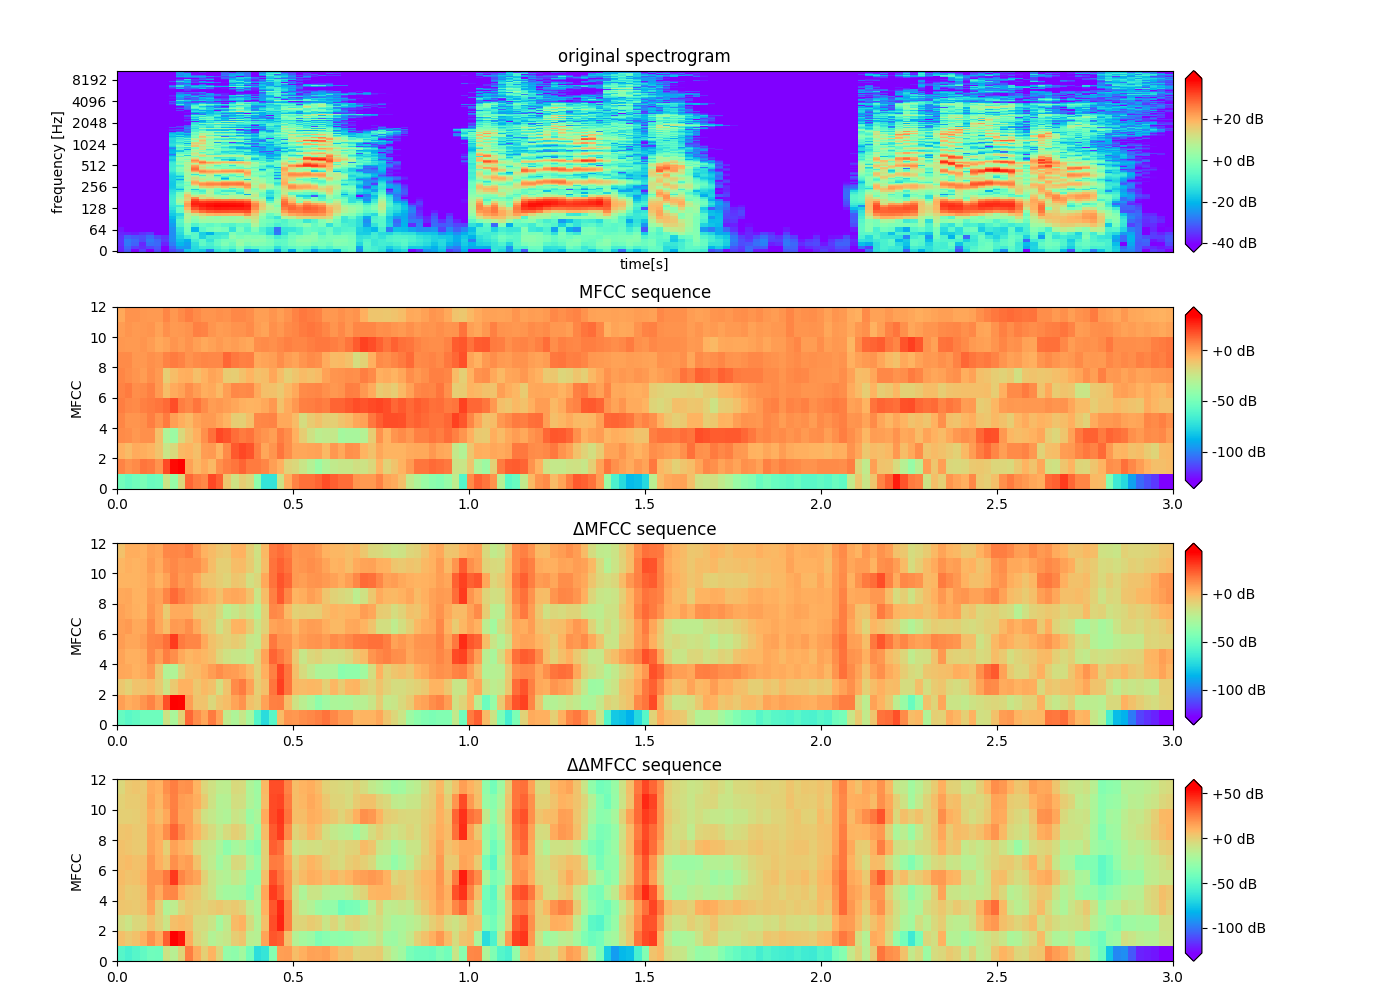
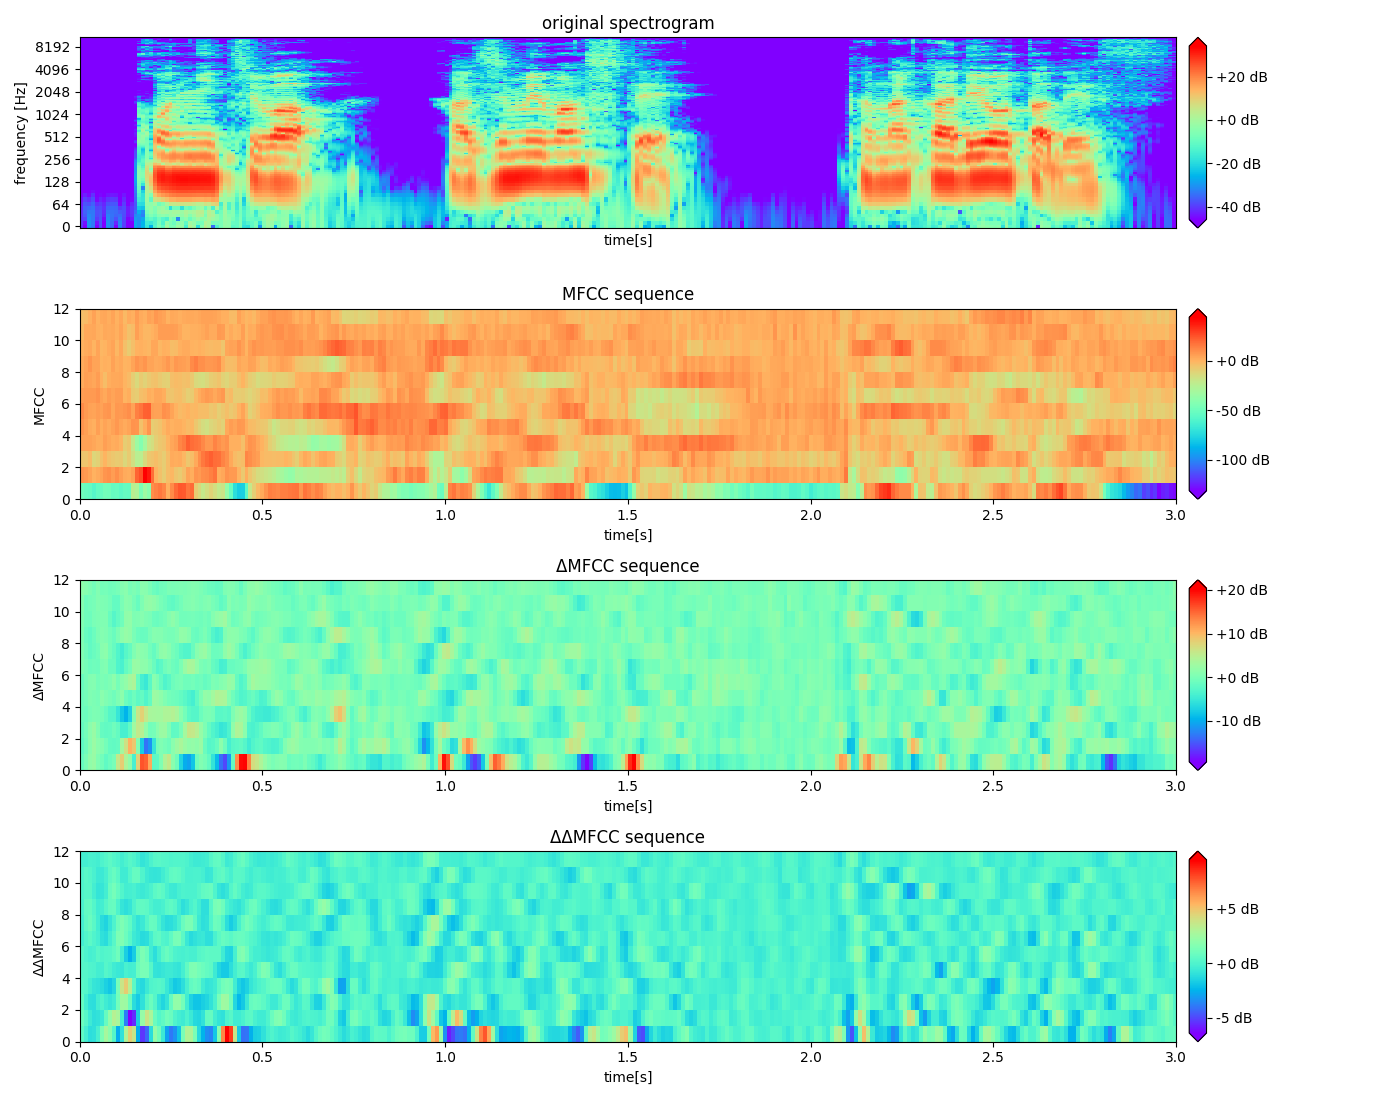
docstringsを追加、動的変化量の計算を修正

diff --git a/ex5/r_tanaka/mfcc.py b/ex5/r_tanaka/mfcc.py
@@ -24,10 +24,10 @@ def hz2mel(f):
     """convert Hz to mel
 
     Args:
-        f (_type_): _description_
+        f (np.ndarray): input data (Hz)
 
     Returns:
-        _type_: _description_
+        np.ndarray: output data (mel)
     """
     return 2595 * np.log(f / 700.0 + 1.0)
 
@@ -36,33 +36,33 @@ def mel2hz(m):
     """convert mel to hz
 
     Args:
-        m (_type_): _description_
+        m (np.ndarray): input data (mel)
 
     Returns:
-        _type_: _description_
+        np.ndarray: output data (Hz)
     """
     return 700 * (np.exp(m / 2595) - 1.0)
 
 
-def melFilterBank(fs, N, numChannels):
+def melFilterBank(sr, N, numChannels):
     """Create mel-filter bank
 
     Args:
-        fs (_type_): _description_
-        N (_type_): _description_
-        numChannels (_type_): _description_
+        sr (int): sampling rate
+        N (int): window size
+        numChannels (int): number of channels in mel-filter bank
 
     Returns:
-        _type_: _description_
+        np.ndarray: mel-filter bank
     """
     # nyquist frequency（Hz）
-    fmax = fs / 2
+    fmax = sr / 2
     # nyquist frequency（mel）
     melmax = hz2mel(fmax)
     # maximum number of frequency indexes
     nmax = N // 2
     # frequency resolution (Hz width per frequency index 1)
-    df = fs / N
+    df = sr / N
     # find the center frequency of each filter in the Mel scale
     dmel = melmax / (numChannels + 1)
     melcenters = np.arange(1, numChannels + 1) * dmel
@@ -85,18 +85,30 @@ def melFilterBank(fs, N, numChannels):
         for i in range(int(indexcenter[c]), int(indexstop[c])):
             filterbank[c, i] = 1.0 - ((i - indexcenter[c]) * decrement)
 
-    return filterbank, fcenters
+    return filterbank
 
 
-def calc_mfcc(x, sr, win_length=1024, hop_length=512, mfcc_dim=12):
-    # Number of row in array y
+def get_mfcc(x, sr, win_length=1024, hop_length=512, mfcc_dim=12):
+    """get mfcc
+
+    Args:
+        x (np.ndarray): input data
+        sr (int): sampling rate
+        win_length (int, optional): window size. Defaults to 1024.
+        hop_length (int, optional): hop length. Defaults to 512.
+        mfcc_dim (int, optional): dimension number of mfcc. Defaults to 12.
+
+    Returns:
+        np.ndarray: mfcc
+    """
+    # Number of row in array x
     xnum = x.shape[0]
     # prepare a hamming window
     window = np.hamming(win_length)
 
     mfcc = []
     for i in range(int((xnum - hop_length) / hop_length)):
-        # extract the part of array y to which the FFT is applied
+        # extract the part of array x to calcurate mfcc
         tmp = x[i * hop_length: i * hop_length + win_length]
         # multiplied by window function
         tmp = tmp * window
@@ -108,7 +120,7 @@ def calc_mfcc(x, sr, win_length=1024, hop_length=512, mfcc_dim=12):
         # get mel-filter bank
         # number of channels in mel-filter bank
         numChannels = 26
-        filterbank, _ = melFilterBank(sr, win_length, numChannels)
+        filterbank = melFilterBank(sr, win_length, numChannels)
         # get mel-scale spectrogram
         tmp = np.dot(filterbank, tmp)
         # logarithmize.
@@ -125,24 +137,29 @@ def calc_mfcc(x, sr, win_length=1024, hop_length=512, mfcc_dim=12):
     return mfcc
 
 
-# x = np.linspace(0, 5, 1)
-def get_delta(x, y):
-    delta, _ = np.polyfit(x, y, 1)
-    return delta
+def delta(input, mfcc_dim, k):
+    """get Δmfcc (or ΔΔmfcc).
 
+    Args:
+        input (np.ndarray): mfcc (or Δmfcc)
+        mfcc_dim (int): dimension number of mfcc (or Δmfcc)
+        k (int): number of frames to get Δmfcc (or ΔΔmfcc)
 
-def delta(input, k):
-    output = input
+    Returns:
+        np.ndarray: Δmfcc (or ΔΔmfcc)
+    """
+    output = np.zeros((mfcc_dim, input.shape[1] - 2 * k))
     for i in range(input.shape[1] - 2 * k):
+        # extract k frames each from the front and back
         tmp = input[:, i: i + 2 * k + 1]
-        delta = []
-        for j in range(12):
-            # print(tmp[j:j + 1, :][0])
-            # print(np.arange(-k, k + 1, 1))
+        delta = [0] * mfcc_dim
+        # calculate the amount of variation for each dimension
+        for j in range(mfcc_dim):
             a, _ = np.polyfit(np.arange(-k, k + 1, 1), tmp[j:j + 1, :][0], 1)
-            delta.append(a)
-        delta = np.array(delta).reshape(12, -1)
-        output[:, i+k:i+k+1] = input[:, i+k:i+k+1] + delta[0]
+            delta[j] = a
+        delta = np.array(delta).reshape(mfcc_dim, -1)
+        output[:, i:i + 1] = delta
+
     return output
 
 
@@ -155,14 +172,14 @@ def main():
     wav, sr = librosa.load(audio_path, mono=True)
 
     # set drawing area
-    plt.rcParams["figure.figsize"] = (14, 10)
+    plt.rcParams["figure.figsize"] = (14, 11)
     fig, ax = plt.subplots(4, 1)
     fig.tight_layout(rect=[0.05, 0, 1, 0.95])
     fig.subplots_adjust(hspace=0.3)
 
     # set paramaters
-    win_length = 1024
-    hop_length = 512
+    win_length = 512
+    hop_length = 256
 
     # get original spectrogram
     spectrogram = librosa.stft(wav, win_length=win_length, hop_length=hop_length)
@@ -170,35 +187,34 @@ def main():
 
     # plot original spectrogram on ax[0]
     img = librosa.display.specshow(spectrogram_db, y_axis="log", sr=sr, cmap="rainbow", ax=ax[0])
-    ax[0].set(title="original spectrogram", xlabel='time[s]', ylabel='frequency [Hz]')
+    ax[0].set(title="original spectrogram", xlabel="time[s]", ylabel="frequency [Hz]")
     fig.colorbar(img, aspect=10, pad=0.01, extend="both", ax=ax[0], format="%+2.f dB")
 
     # apply pre-emphasis filter
     wav = preEmphasis(wav)
 
-    # apply hamming window
-    hammingWindow = np.hamming(len(wav))
-    wav = wav * hammingWindow
-
     # mfcc
     mfcc_dim = 12
-    mfcc = calc_mfcc(wav, sr, win_length=win_length, hop_length=hop_length, mfcc_dim=mfcc_dim)
+    mfcc = get_mfcc(wav, sr, win_length=win_length, hop_length=hop_length, mfcc_dim=mfcc_dim)
     wav_time = wav.shape[0] // sr
     extent = [0, wav_time, 0, mfcc_dim]
     img1 = ax[1].imshow(np.flipud(mfcc), aspect="auto", extent=extent, cmap="rainbow")
-    ax[1].set(title="MFCC sequence", xlabel=None, ylabel="MFCC", yticks=range(0, 13, 2))
+    ax[1].set(title="MFCC sequence", xlabel="time[s]", ylabel="MFCC", yticks=range(0, 13, 2))
     fig.colorbar(img1, aspect=10, pad=0.01, extend="both", ax=ax[1], format="%+2.f dB")
 
-    dmfcc = delta(mfcc, 2)
+    # Δmfcc
+    dmfcc = delta(mfcc, mfcc_dim, k=2)
     img2 = ax[2].imshow(np.flipud(dmfcc), aspect="auto", extent=extent, cmap="rainbow")
-    ax[2].set(title="ΔMFCC sequence", xlabel=None, ylabel="MFCC", yticks=range(0, 13, 2))
+    ax[2].set(title="ΔMFCC sequence", xlabel="time[s]", ylabel="ΔMFCC", yticks=range(0, 13, 2))
     fig.colorbar(img2, aspect=10, pad=0.01, extend="both", ax=ax[2], format="%+2.f dB")
 
-    dmfcc = delta(mfcc, 2)
-    img3 = ax[3].imshow(np.flipud(dmfcc), aspect="auto", extent=extent, cmap="rainbow")
-    ax[3].set(title="ΔΔMFCC sequence", xlabel=None, ylabel="MFCC", yticks=range(0, 13, 2))
+    # ΔΔmfcc
+    ddmfcc = delta(dmfcc, mfcc_dim, k=2)
+    img3 = ax[3].imshow(np.flipud(ddmfcc), aspect="auto", extent=extent, cmap="rainbow")
+    ax[3].set(title="ΔΔMFCC sequence", xlabel="time[s]", ylabel="ΔΔMFCC", yticks=range(0, 13, 2))
     fig.colorbar(img3, aspect=10, pad=0.01, extend="both", ax=ax[3], format="%+2.f dB")
 
+    fig.tight_layout()
     fig.savefig("mfcc.png")
 
 
